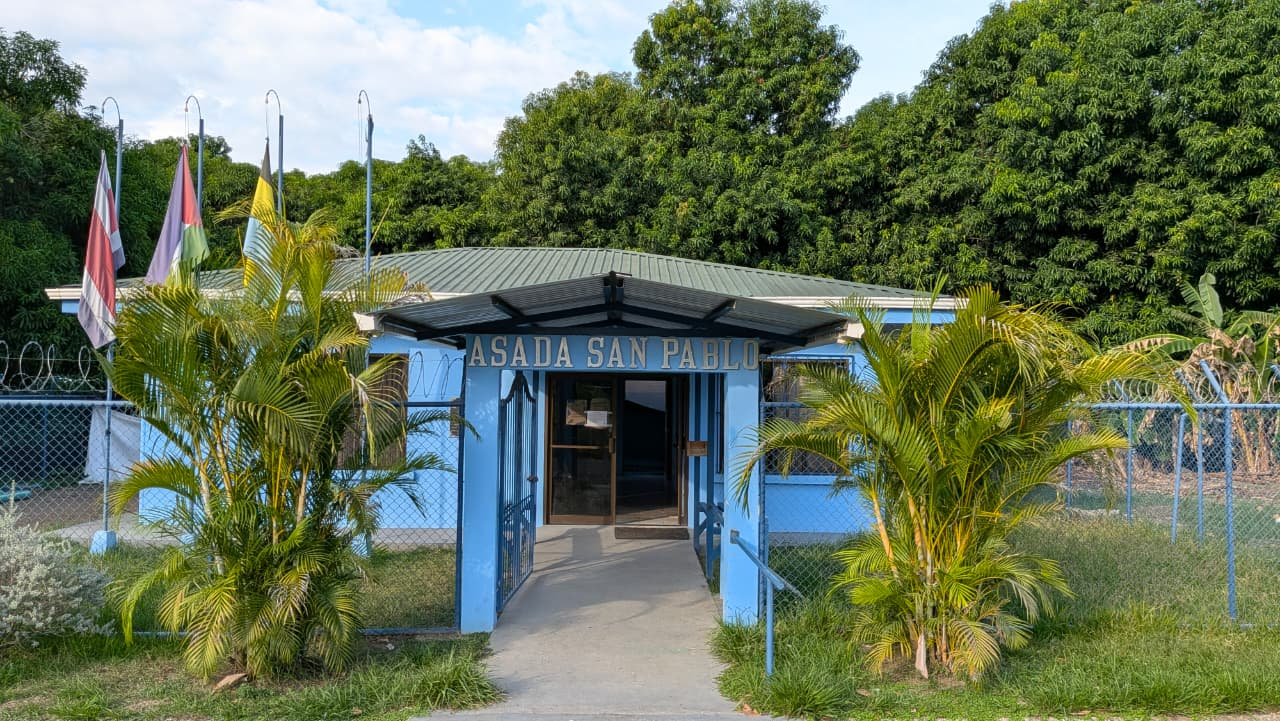
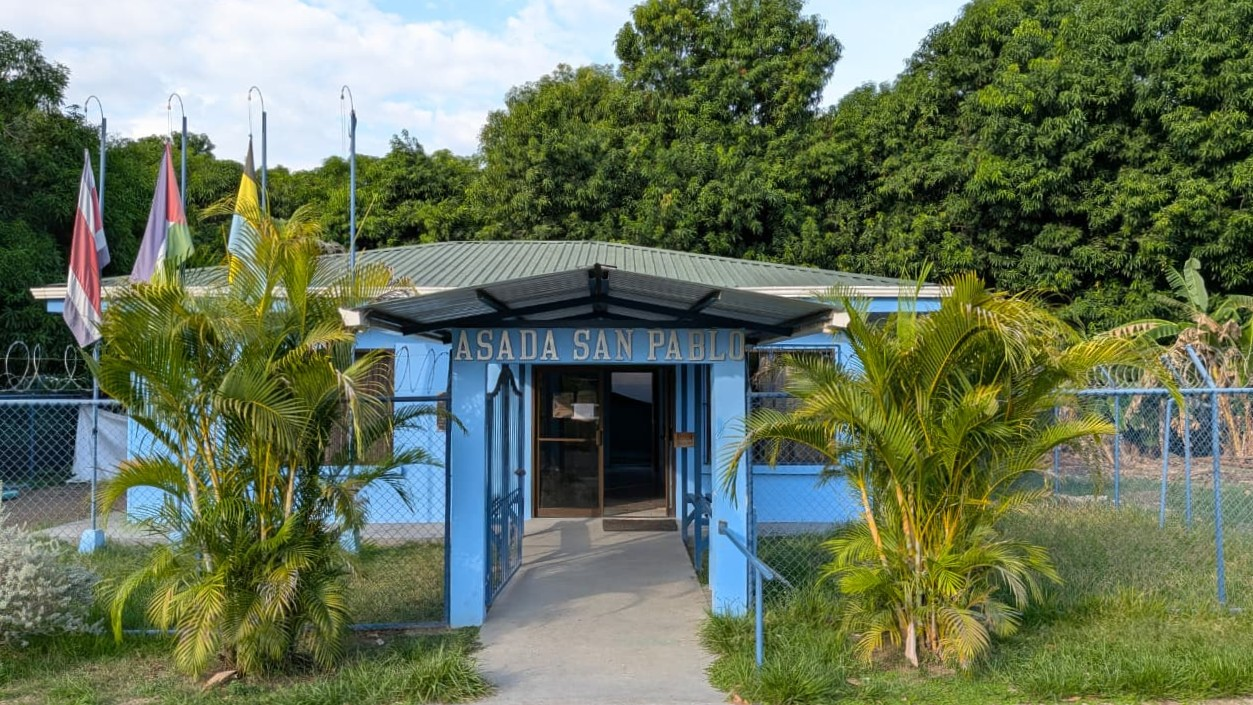
Implement image carousel in About component; update image source in HeroNew component. Refactor button placement in UserRequestAssociated and UserRequestChangeNameMeter components. Update request supervision terminology in AdminRequestSupervisionMeter, ListReqSupervisionMeter, and UserRequestSupervi

diff --git a/src/Modules/Lading/About.tsx b/src/Modules/Lading/About.tsx
@@ -1,4 +1,20 @@
+"use client";
+
+import { useState, useEffect } from "react";
+
+const IMAGES = ["/ASADA-San Pablo.jpg", "/Tubos.jpeg"];
+
 export function About() {
+  const [currentImageIndex, setCurrentImageIndex] = useState(0);
+
+  useEffect(() => {
+    const interval = setInterval(() => {
+      setCurrentImageIndex((prev) => (prev + 1) % IMAGES.length);
+    }, 15000);
+
+    return () => clearInterval(interval);
+  }, []);
+
   return (
     <section id="sobre-nosotros" className="py-24 bg-white">
       <div className="container mx-auto px-6 md:px-12">
@@ -8,7 +24,7 @@ export function About() {
             <div className="absolute -top-4 -left-4 h-24 w-24 bg-[#005CAF] z-0" />
             <div className="relative overflow-hidden rounded-none bg-slate-100 shadow-[0_28px_70px_rgba(9,21,64,0.22)] ring-1 ring-black/5">
               <img
-                src="/Tubos.jpeg"
+                src={IMAGES[currentImageIndex]}
                 alt="Instalaciones ASADA"
                 className="relative z-10 w-full h-[400px] md:h-[500px] object-cover shadow-2xl"
                 referrerPolicy="no-referrer"

diff --git a/src/Modules/Requests/RequestChangeNameMeter/Pages/UserRequestChangeNameMeter.tsx b/src/Modules/Requests/RequestChangeNameMeter/Pages/UserRequestChangeNameMeter.tsx
@@ -407,15 +407,6 @@ export default function UserRequestChangeNameMeter() {
           </Card>
 
           <div className="flex justify-end gap-3 border-t border-slate-200 pt-4">
-            <Button
-              type="button"
-              variant="outline"
-              className="rounded-none"
-              onClick={handleClose}
-              disabled={isUploading}
-            >
-              Cancelar
-            </Button>
             <form.Subscribe selector={(state) => [state.canSubmit, state.isSubmitting]}>
               {([canSubmit, isSubmitting]) => (
                 <Button
@@ -427,6 +418,16 @@ export default function UserRequestChangeNameMeter() {
                 </Button>
               )}
             </form.Subscribe>
+            <Button
+              type="button"
+              variant="outline"
+              className="rounded-none"
+              onClick={handleClose}
+              disabled={isUploading}
+            >
+              Cancelar
+            </Button>
+            
           </div>
         </form>
       )}

diff --git a/src/Modules/Requests/RequestAssociated/Pages/UserRequestAssociated.tsx b/src/Modules/Requests/RequestAssociated/Pages/UserRequestAssociated.tsx
@@ -383,15 +383,6 @@ export function UserRequestAssociated () {
           </Card>
 
           <div className="flex justify-end gap-3 border-t border-slate-200 pt-4">
-            <Button
-              type="button"
-              variant="outline"
-              className="rounded-none"
-              onClick={handleClose}
-              disabled={isUploading}
-            >
-              Cancelar
-            </Button>
             <form.Subscribe selector={(state) => [state.canSubmit, state.isSubmitting]}>
               {([canSubmit, isSubmitting]) => (
                 <Button
@@ -405,6 +396,16 @@ export function UserRequestAssociated () {
                 </Button>
               )}
             </form.Subscribe>
+            <Button
+              type="button"
+              variant="outline"
+              className="rounded-none"
+              onClick={handleClose}
+              disabled={isUploading}
+            >
+              Cancelar
+            </Button>
+            
           </div>
         </form>
       )}

diff --git a/src/Modules/Requests/RequestSupervisionMeter/Modals/AdminRequestSupervisionMeter.tsx b/src/Modules/Requests/RequestSupervisionMeter/Modals/AdminRequestSupervisionMeter.tsx
@@ -166,14 +166,14 @@ export default function CreateRequestSupervisionMeter2() {
         onClick={() => setOpen(true)}
         className="rounded-none bg-[#091540] text-white hover:bg-[#1789FC]"
       >
-        + Solicitar Supervisión de Medidor
+        + Solicitar revisión de Medidor
       </Button>
 
       <Dialog open={open} onOpenChange={(nextOpen) => !nextOpen && handleClose()}>
         <DialogContent className="max-h-[90vh] max-w-4xl overflow-hidden rounded-none border-slate-200 p-0">
           <DialogHeader className="border-b border-slate-200 px-8 py-6">
             <DialogTitle className="text-2xl text-[#091540]">
-              Solicitud de Supervisión de Medidor
+              Solicitud de revisión de Medidor
             </DialogTitle>
             <DialogDescription>
               Complete los datos del abonado y la justificación para registrar la solicitud.

diff --git a/src/Modules/Requests/RequestSupervisionMeter/Pages/ListReqSupervisionMeter.tsx b/src/Modules/Requests/RequestSupervisionMeter/Pages/ListReqSupervisionMeter.tsx
@@ -101,12 +101,12 @@ export default function ListReqSupervisionMeter() {
           <div className="space-y-1">
             <h1 className="text-2xl font-semibold tracking-tight">
               {viewMode === "create"
-                ? "Nueva solicitud de supervisión de medidor"
-                : "Solicitudes de supervisión de medidor"}
+                ? "Nueva solicitud de revisión de medidor"
+                : "Solicitudes de revisión de medidor"}
             </h1>
             <p className="text-sm text-[#091540]/70">
               {viewMode === "create"
-                ? "Registre una nueva solicitud de supervisión de medidor."
+                ? "Registre una nueva solicitud de revisión de medidor."
                 : "Revise el listado, filtre resultados y gestione el estado de cada solicitud."}
             </p>
           </div>

diff --git a/src/Modules/Requests/RequestSupervisionMeter/Pages/UserRequestSupervisionMeter.tsx b/src/Modules/Requests/RequestSupervisionMeter/Pages/UserRequestSupervisionMeter.tsx
@@ -75,8 +75,8 @@ export default function UserRequestSupervisionMeter() {
           <div className="space-y-1">
             <h1 className="text-2xl font-semibold tracking-tight">
               {viewMode === "create"
-                ? "Solicitud de supervisión de medidor"
-                : "Mis solicitudes de supervisión de medidor"}
+                ? "Solicitud de revisión de medidor"
+                : "Mis solicitudes de revisión de medidor"}
             </h1>
             <p className="text-sm text-[#091540]/70">
               {viewMode === "create"

diff --git a/src/Modules/Users/Pages/ListUsers.tsx b/src/Modules/Users/Pages/ListUsers.tsx
@@ -40,10 +40,10 @@ export default function ListUsers() {
   const rows: User[] = data?.data ?? [];
   const rawMeta = data?.meta;
   const meta = {
-    limit: rawMeta?.itemsPerPage ?? limit,
-    total: rawMeta?.totalItems ?? 0,
-    page: rawMeta?.currentPage ?? 1,
-    pageCount: rawMeta?.totalPages ?? 1,
+    limit: rawMeta?.limit ?? limit,
+    total: rawMeta?.total ?? 0,
+    page: rawMeta?.page ?? page,
+    pageCount: rawMeta?.pageCount ?? 1,
     hasNextPage: rawMeta?.hasNextPage ?? false,
     hasPrevPage: rawMeta?.hasPrevPage ?? false,
   };

diff --git a/src/Modules/Lading/HeroNew.tsx b/src/Modules/Lading/HeroNew.tsx
@@ -10,7 +10,7 @@ const Hero = () => {
       {/* Background */}
       <div className="absolute inset-0 z-0">
         <img
-          src="public\ASADA_main.jpeg"
+          src="/Hero_image.jpg"
           alt="Fondo agua"
           className="w-full h-full object-cover"
           referrerPolicy="no-referrer"

diff --git a/src/core/pagination/pagination.ts b/src/core/pagination/pagination.ts
@@ -1,9 +1,9 @@
 export type PaginationMeta = {
-    totalItems: number;
+    total: number;
     itemCount: number;
-    itemsPerPage: number;
-    totalPages: number;
-    currentPage: number;
+    limit: number;
+    pageCount: number;
+    page: number;
     hasNextPage: boolean;
     hasPrevPage: boolean;
 };
